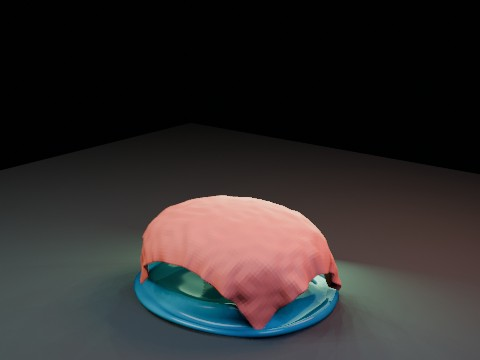
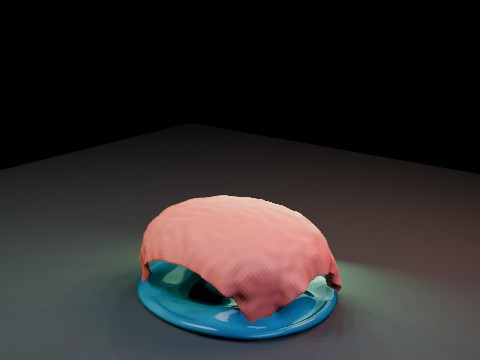
chore: publish cloth-water-blob-impact-eevee result [skip ci]

Changed region(s): [[0.2812, 0.6722, 0.7188, 0.9778]]

diff --git a/results/cloth-water-blob-impact-eevee/README.md b/results/cloth-water-blob-impact-eevee/README.md
@@ -2,8 +2,8 @@
 
 A Cloth sheet falls onto a translucent water-like Soft Body blob. This is deliberately not a true fluid simulation: it tests direct live Cloth/Soft Body collision coupling before moving to Mantaflow.
 
-- source commit: `3a2038f957188195b5b3233cf06e2f39c1c5e032`
-- Actions run: `8` (`36277326647`)
+- source commit: `9c95751a52e551055dfe28f8ccef8a9e95b16431`
+- Actions run: `9` (`36277898368`)
 - full artifact: `blender-cloth-water-blob-impact-eevee`
 
 ## Blend files
@@ -19,40 +19,40 @@ A Cloth sheet falls onto a translucent water-like Soft Body blob. This is delibe
   "video": "cloth-water-blob-impact-eevee.mp4",
   "preview": {
     "path": "output/preview.png",
-    "size_bytes": 191097,
+    "size_bytes": 191165,
     "width": 480,
     "height": 360,
     "luminance_min": 0,
-    "luminance_max": 219,
-    "luminance_mean": 44.985,
-    "luminance_stddev": 49.111,
[1 lines of base64/hex data omitted]
+    "luminance_max": 217,
+    "luminance_mean": 44.774,
+    "luminance_stddev": 49.145,
[1 lines of base64/hex data omitted]
   },
   "movie": {
     "path": "output/cloth-water-blob-impact-eevee.mp4",
-    "size_bytes": 42632,
+    "size_bytes": 42506,
     "width": 480,
     "height": 360,
     "duration_seconds": 8.0,
     "avg_frame_rate": "24/1",
     "nb_frames": "192",
[2 lines of base64/hex data omitted]
   },
   "report": {
     "engine": "BLENDER_EEVEE",
     "blob_vertex_count": 546,
-    "blob_max_displacement": 1.602084,
-    "blob_peak_frame": 64,
-    "blob_center_top_drop": 1.447046,
+    "blob_max_displacement": 1.604002,
+    "blob_peak_frame": 63,
+    "blob_center_top_drop": 1.442768,
     "cloth_vertex_count": 1085,
-    "cloth_max_displacement": 3.538263,
-    "cloth_min_vertex_z": 0.034998,
+    "cloth_max_displacement": 3.606152,
+    "cloth_min_vertex_z": 0.034773,
     "first_contact_frame": 23,
-    "coverage_at_blob_peak": 0.979724,
+    "coverage_at_blob_peak": 0.980645,
     "min_abs_center_gap": 0.374365,
     "min_abs_center_gap_frame": 26,
-    "cloth_simulation_seconds": 15.062,
-    "blob_simulation_seconds": 11.427,
+    "cloth_simulation_seconds": 13.495,
+    "blob_simulation_seconds": 8.846,
     "blend_size_bytes": 5131608
   }
 }
